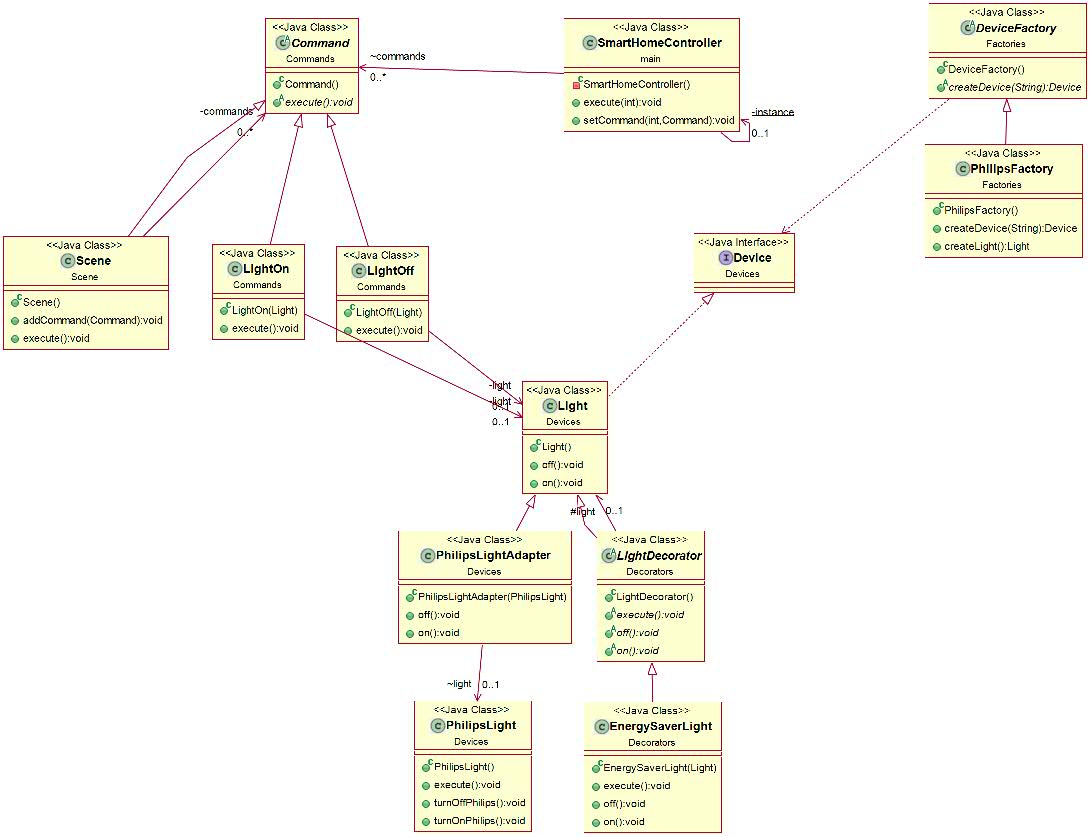
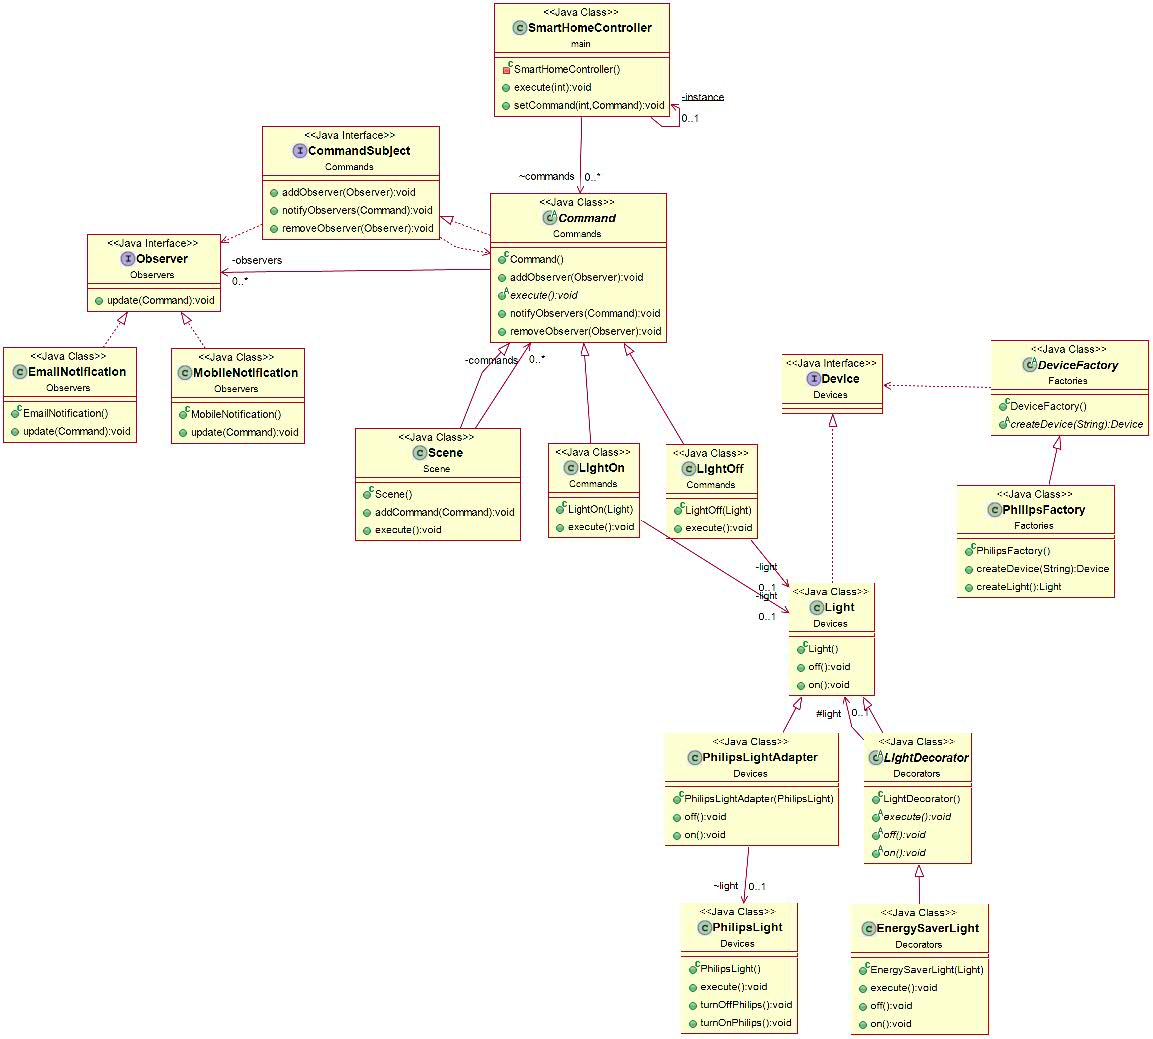
observer pattern

diff --git a/SmartHomeController/src/main/Main.java b/SmartHomeController/src/main/Main.java
@@ -1,31 +1,42 @@
 package main;
 
-import Commands.LightOff;
-import Commands.LightOn;
-import Decorators.EnergySaverLight;
-import Devices.Device;
-import Devices.Light;
-import Devices.PhilipsLight;
-import Devices.PhilipsLightAdapter;
-import Factories.PhilipsFactory;
-import Scene.Scene;
+import Commands.*;
+import Decorators.*;
+import Devices.*;
+import Factories.*;
+import Scene.*;
+import Observers.*;
 
 public class Main {
-	public static void main(String[] args){
-        SmartHomeController controller1 = SmartHomeController.getController();
-        PhilipsFactory philipsFactory = new PhilipsFactory();
-        Light light1 = philipsFactory.createLight();
-        light1 = new EnergySaverLight(light1);
-        Light light2 = philipsFactory.createLight();
-        Scene LightsOn = new Scene();
-        LightsOn.addCommand(new LightOn(light1));
-        LightsOn.addCommand(new LightOn(light2));
-        controller1.setCommand(0, new LightOn(light1));
-        controller1.setCommand(1, new LightOff(light1));
-        controller1.execute(0);
-        controller1.execute(1);
-        controller1.setCommand(2, LightsOn);
-        controller1.execute(2);
-        
-        }
+	public static void main(String[] args) {
+		SmartHomeController controller1 = SmartHomeController.getController();
+		PhilipsFactory philipsFactory = new PhilipsFactory();
+		Light light1 = philipsFactory.createLight();
+		light1 = new EnergySaverLight(light1);
+		Light light2 = philipsFactory.createLight();
+		Scene LightsOn = new Scene();
+		LightsOn.addCommand(new LightOn(light1));
+		LightsOn.addCommand(new LightOn(light2));
+		controller1.setCommand(0, new LightOn(light1));
+		controller1.setCommand(1, new LightOff(light1));
+		controller1.execute(0);
+		controller1.execute(1);
+		controller1.setCommand(2, LightsOn);
+		controller1.execute(2);
+
+		System.out.println("-------------");
+		Light light = new Light();
+		LightOn lightOnCommand = new LightOn(light);
+
+		Observer emailObserver = new EmailNotification();
+		lightOnCommand.addObserver(emailObserver);
+
+		lightOnCommand.execute();
+
+		System.out.println("-------------");
+
+		LightsOn.addObserver(emailObserver);
+		LightsOn.execute();
+
+	}
 }

diff --git a/SmartHomeController/src/Commands/Command.java b/SmartHomeController/src/Commands/Command.java
@@ -1,6 +1,27 @@
 package Commands;
 
-public abstract class Command {
+import java.util.ArrayList;
+import java.util.List;
+
+import Observers.*;
+
+public abstract class Command implements CommandSubject {
+	private List<Observer> observers = new ArrayList<>();
+	
 	public abstract void execute();
+	
+    public void addObserver(Observer observer) {
+        observers.add(observer);
+    }
+
+    public void removeObserver(Observer observer) {
+        observers.remove(observer);
+    }
+
+    public void notifyObservers(Command command) {
+        for (Observer observer : observers) {
+            observer.update(command);
+        }
+    }
 
 }

diff --git a/SmartHomeController/src/Commands/LightOff.java b/SmartHomeController/src/Commands/LightOff.java
@@ -2,13 +2,16 @@ package Commands;
 
 import Devices.Light;
 
-public class LightOff extends Command{
+public class LightOff extends Command {
 	private Light light;
+
 	public LightOff(Light light) {
 		this.light = light;
 	}
+
 	@Override
 	public void execute() {
 		light.off();
+		notifyObservers(this);
 	}
 }

diff --git a/SmartHomeController/src/Decorators/EnergySaverLight.java b/SmartHomeController/src/Decorators/EnergySaverLight.java
@@ -1,6 +1,7 @@
 package Decorators;
 
 import Devices.Light;
+import Commands.*;
 
 public class EnergySaverLight extends LightDecorator{
 
@@ -10,7 +11,6 @@ public class EnergySaverLight extends LightDecorator{
 	@Override
 	public void execute() {
 		// TODO Auto-generated method stub
-		
 	}
 
 	@Override

diff --git a/SmartHomeController/src/Observers/MobileNotification.java b/SmartHomeController/src/Observers/MobileNotification.java
@@ -1,0 +1,13 @@
+package Observers;
+
+import Commands.Command;
+
+public class MobileNotification implements Observer {
+
+	@Override
+	public void update(Command command) {
+		System.out.println("Mobile Notification: " + command.getClass().getSimpleName() + " executed.");
+		
+	}
+
+}

diff --git a/SmartHomeController/src/Observers/EmailNotification.java b/SmartHomeController/src/Observers/EmailNotification.java
@@ -1,0 +1,13 @@
+package Observers;
+
+import Commands.Command;
+
+public class EmailNotification implements Observer {
+
+	@Override
+	public void update(Command command) {
+		System.out.println("Email Notification: " + command.getClass().getSimpleName() + " executed.");
+		
+	}
+
+}

diff --git a/SmartHomeController/src/Commands/LightOn.java b/SmartHomeController/src/Commands/LightOn.java
@@ -4,13 +4,14 @@ import Devices.Light;
 
 public class LightOn extends Command{
 	private Light light;
+	
 	public LightOn(Light light) {
 		this.light = light;
 	}
 	@Override
 	public void execute() {
 		light.on();
-		
+		notifyObservers(this);
 	}
 
 }

diff --git a/SmartHomeController/src/Commands/CommandSubject.java b/SmartHomeController/src/Commands/CommandSubject.java
@@ -1,0 +1,11 @@
+package Commands;
+
+import Observers.*;
+
+public interface CommandSubject {
+	void addObserver(Observer observer);
+
+	void removeObserver(Observer observer);
+
+	void notifyObservers(Command command);
+}

diff --git a/SmartHomeController/src/Scene/Scene.java b/SmartHomeController/src/Scene/Scene.java
@@ -15,6 +15,7 @@ public class Scene extends Command{
 	public void execute() {
 		for (Command command : commands) {
 	        command.execute();
+	        notifyObservers(command);
 	     }
 	}
 }

diff --git a/SmartHomeController/src/Observers/Observer.java b/SmartHomeController/src/Observers/Observer.java
@@ -1,0 +1,7 @@
+package Observers;
+
+import Commands.*;
+
+public interface Observer {
+	void update(Command command);
+}
